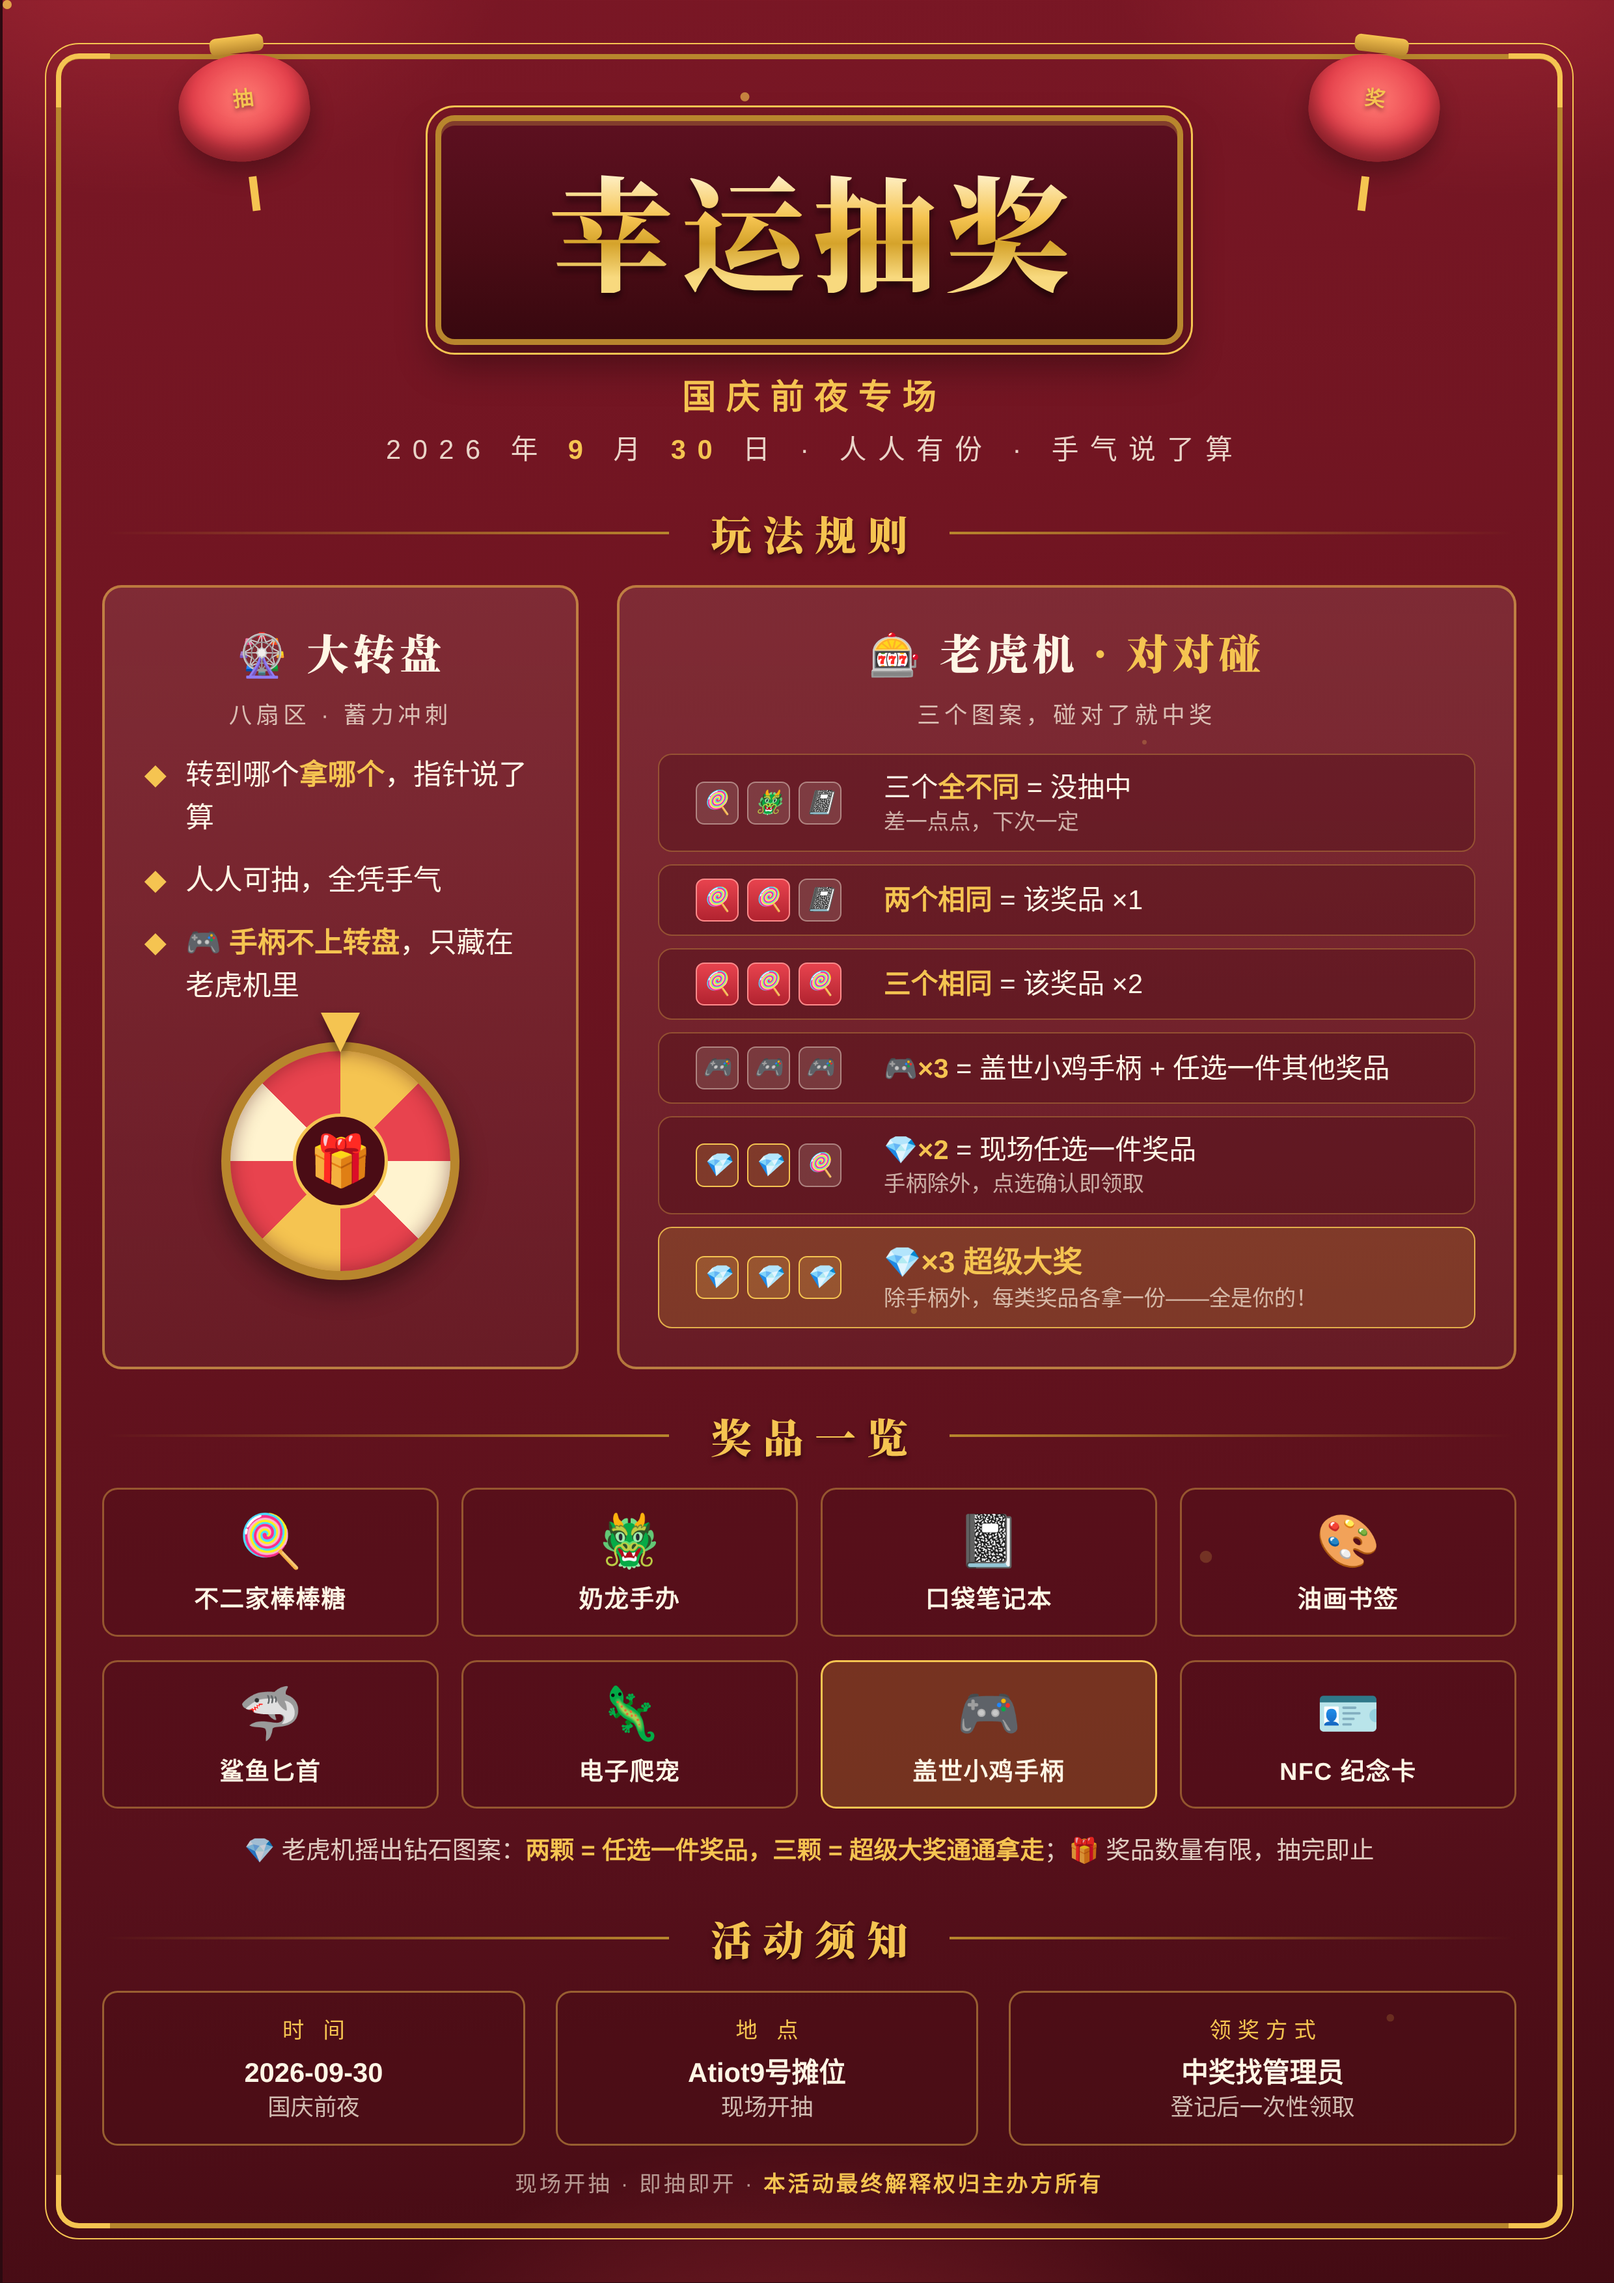
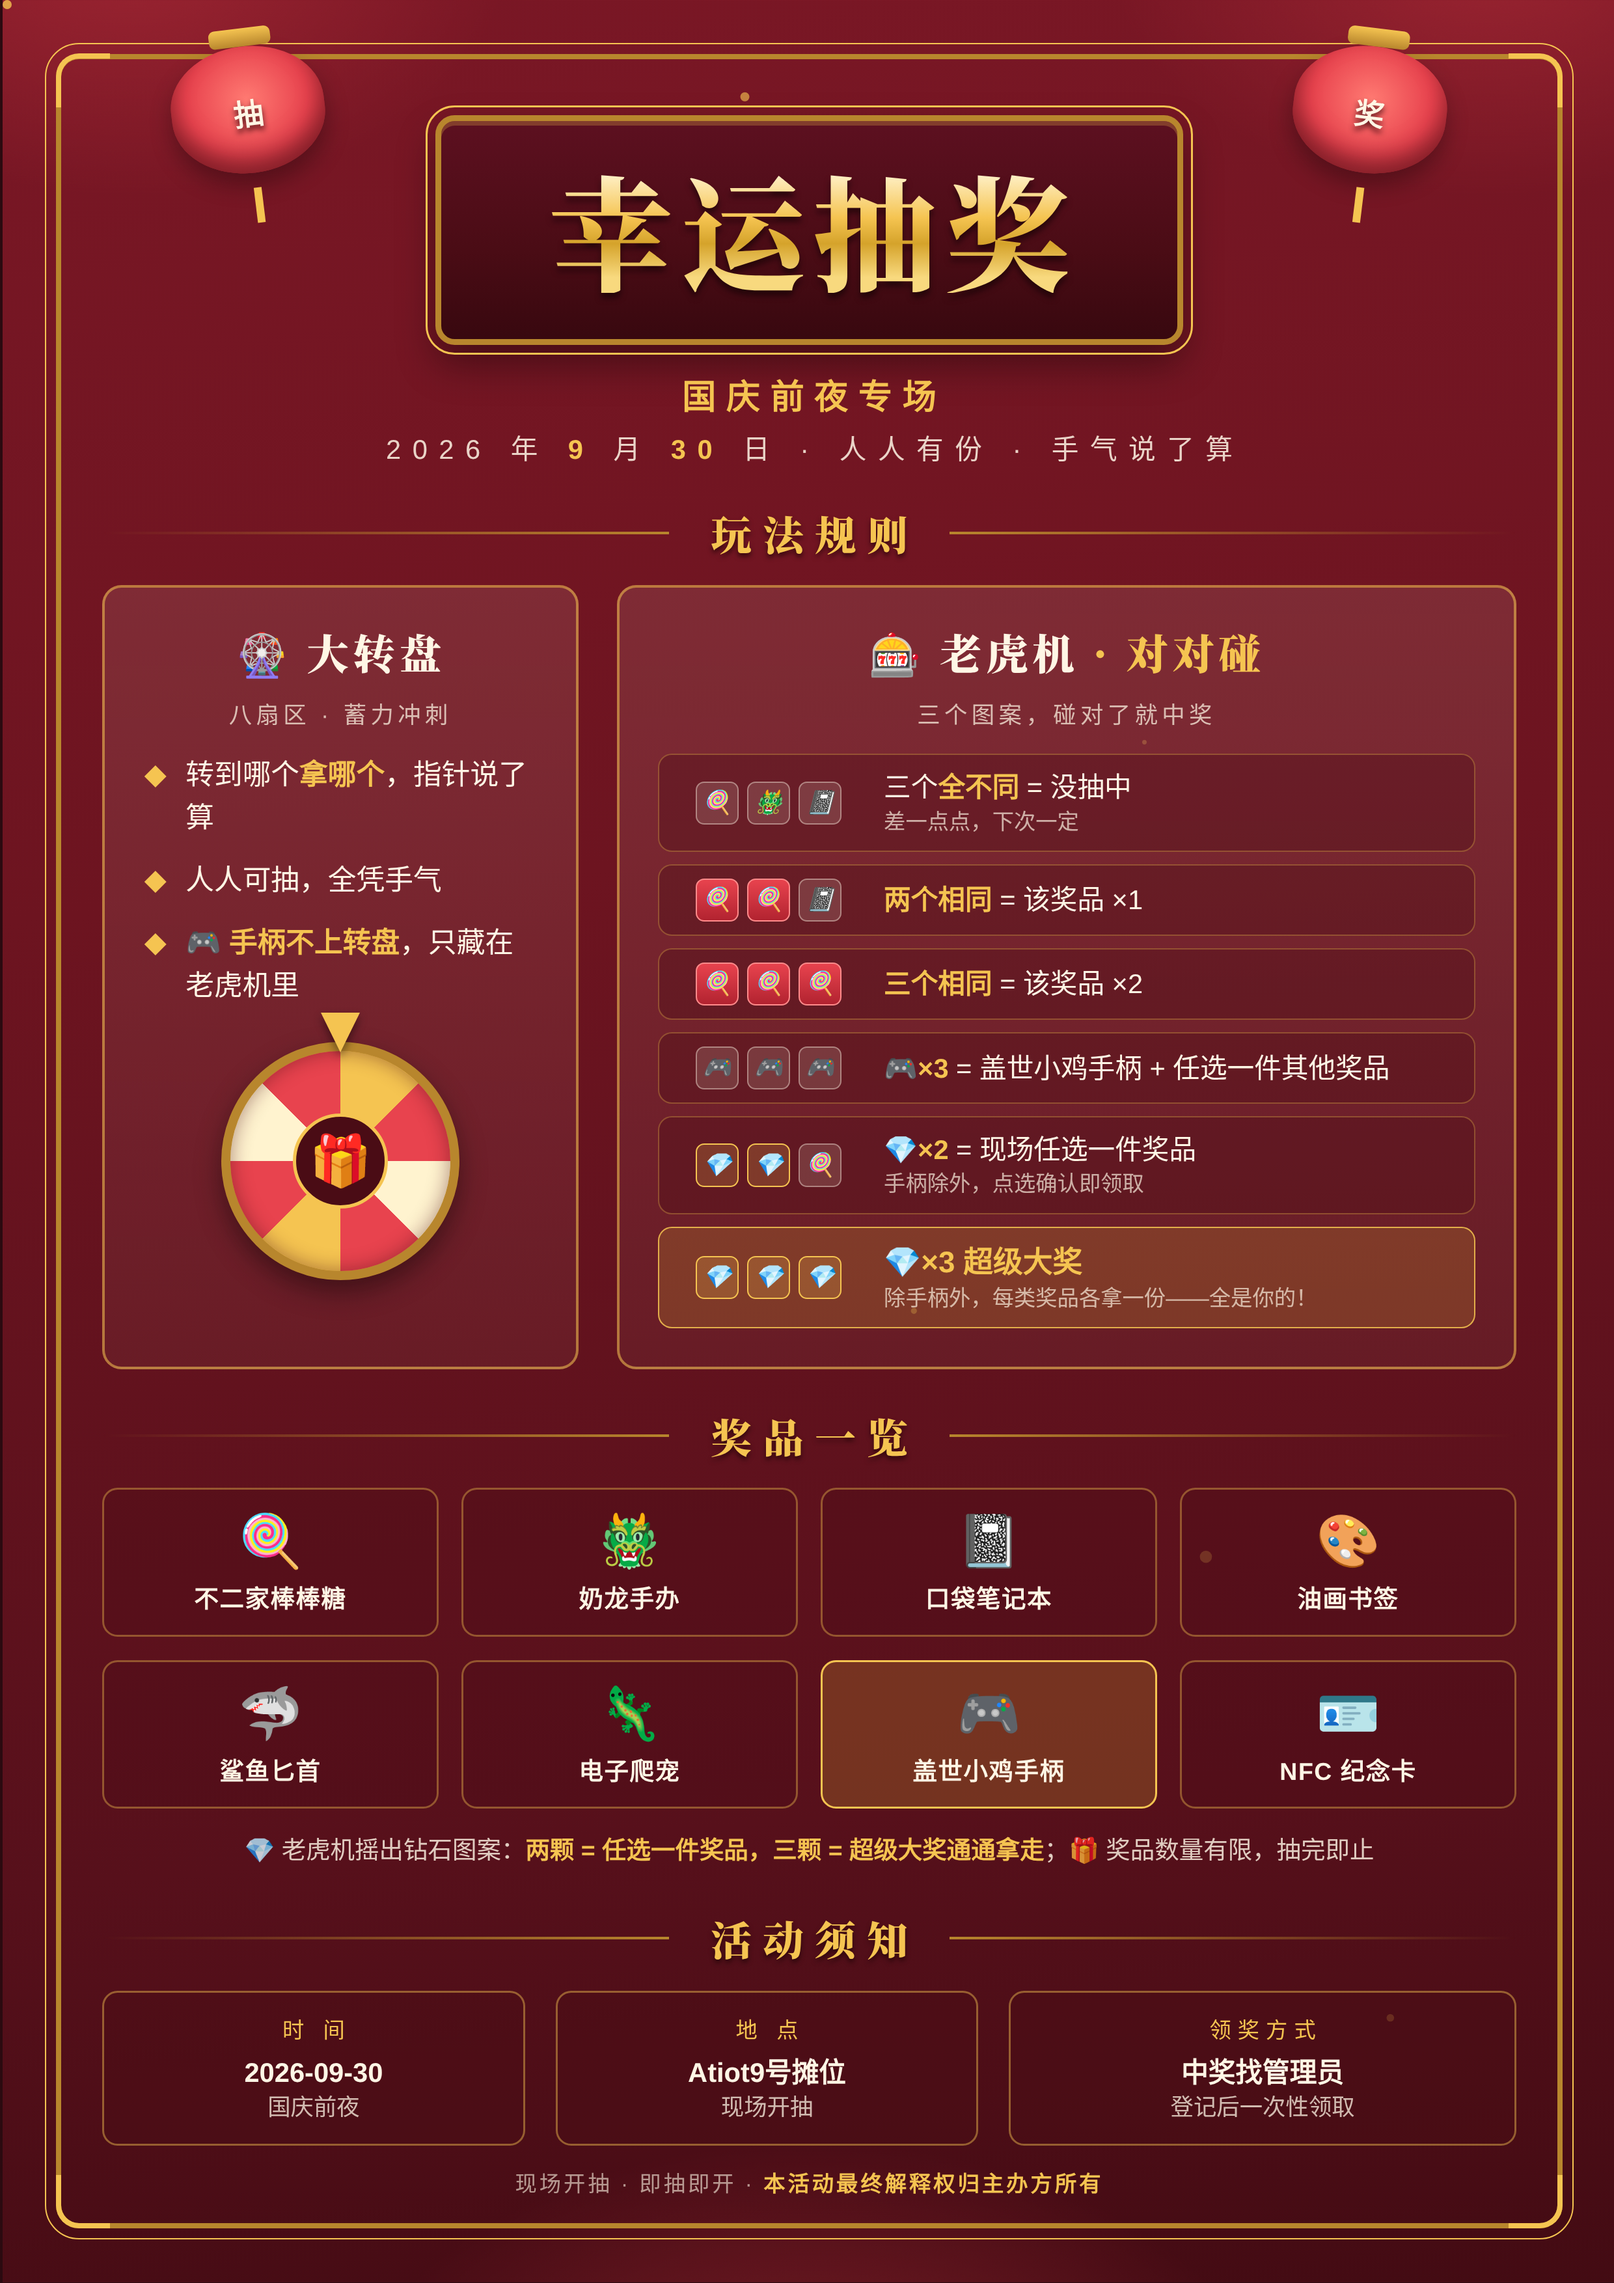
修复: 海报灯笼"抽奖"二字彩印可读性——放大灯笼并改米白特粗字
- 灯笼 17×14mm → 20×16.5mm，左右边距 10mm→9mm、顶部微调，顶盖随主体 7×2.2→8×2.4mm
- 灯笼字 7.5pt 金字 → 11pt 米白(#FFF6E5)特粗，投影改深绛色 rgba(58,6,12,.85)，提高对红灯笼底色的对比度
- 字位 top 3.6→5.8mm，按放大后灯笼视觉中心垂直居中
- PNG 用 headless Chromium 按 300dpi(2480×3508) 重新渲染，特写裁片核验 4mm 字高清晰可读

Changed region(s): [[0.7762, 0.0, 0.9004, 0.0932], [0.0931, 0.0, 0.2173, 0.0932]]

diff --git a/poster/lucky-draw-A4.html b/poster/lucky-draw-A4.html
@@ -73,19 +73,20 @@
   /* ── 头部：灯笼 + 烫金牌匾 ── */
   header { text-align: center; position: relative; padding-top: 2mm; }
   .lantern {
-    position: absolute; top: -6mm; width: 17mm; height: 14mm;
+    position: absolute; top: -7mm; width: 20mm; height: 16.5mm;
     background: radial-gradient(ellipse at 50% 42%, #ff7a72 0%, var(--red) 55%, #a8222e 100%);
     border-radius: 50% / 46%;
     box-shadow: inset 0 -2mm 3mm rgba(74, 12, 21, .55), 0 1.5mm 3mm rgba(0,0,0,.3);
   }
   .lantern::before, .lantern::after { content: ""; position: absolute; left: 50%; transform: translateX(-50%); }
-  .lantern::before { top: -2.4mm; width: 7mm; height: 2.2mm; background: linear-gradient(180deg, var(--gold), var(--gold-deep)); border-radius: 0.8mm; }
+  .lantern::before { top: -2.4mm; width: 8mm; height: 2.4mm; background: linear-gradient(180deg, var(--gold), var(--gold-deep)); border-radius: 0.8mm; }
   .lantern::after { bottom: -6.5mm; width: 1mm; height: 4.5mm; background: var(--gold); }
-  .lantern.l { left: 10mm; transform: rotate(-7deg); }
-  .lantern.r { right: 10mm; transform: rotate(7deg); }
+  .lantern.l { left: 9mm; transform: rotate(-7deg); }
+  .lantern.r { right: 9mm; transform: rotate(7deg); }
   .lantern small {
-    position: absolute; top: 3.6mm; left: 0; right: 0; text-align: center;
-    font-size: 7.5pt; font-weight: 700; color: var(--gold); text-shadow: 0 0.3mm 0.5mm rgba(74,12,21,.6);
+    position: absolute; top: 5.8mm; left: 0; right: 0; text-align: center;
+    font-size: 11pt; font-weight: 900; color: var(--paper);
+    text-shadow: 0 0.5mm 0.7mm rgba(58, 6, 12, .85);
   }
   .plaque {
     display: inline-block; padding: 5.5mm 13mm 6mm;
